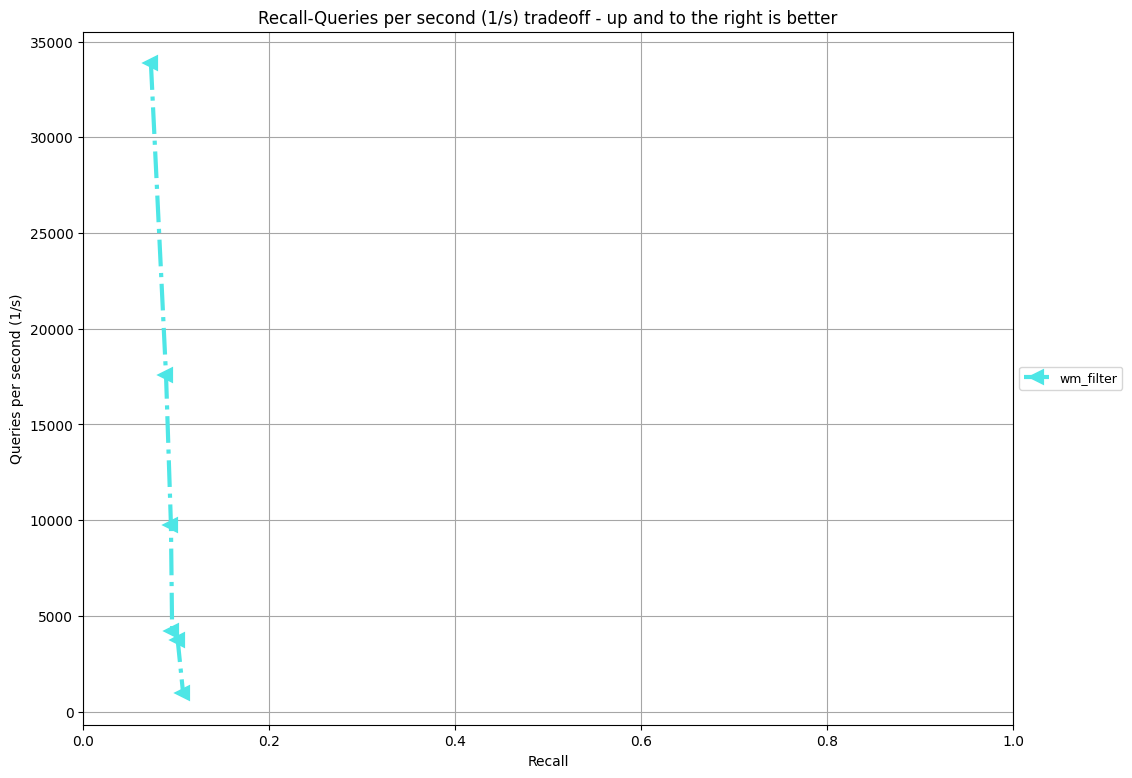
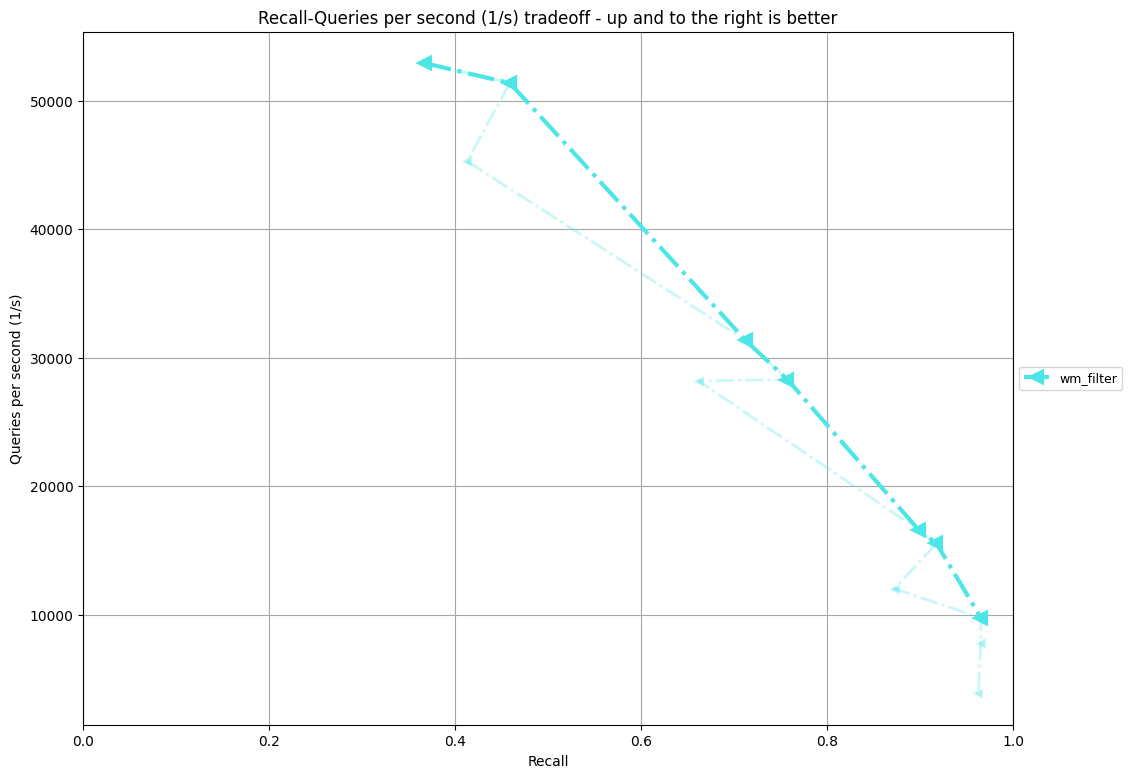
added result of fast scan

diff --git a/neurips23/filter/wm_filter/wm_filter.py b/neurips23/filter/wm_filter/wm_filter.py
@@ -86,6 +86,7 @@ class FAISS(BaseFilterANN):
         self._index_params = index_params
         self._metric = metric
         print(index_params)
+        self.train_size = index_params.get('train_size', None)
         self.indexkey = index_params.get("indexkey", "IVF32768,SQ8")
         self.binarysig = index_params.get("binarysig", True)
         self.binarysig_proba1 = index_params.get("binarysig_proba1", 0.1)
@@ -94,6 +95,7 @@ class FAISS(BaseFilterANN):
     
 
     def fit(self, dataset):
+        faiss.omp_set_num_threads(self.nt)
         ds = DATASETS[dataset]()
         if ds.search_type() == "knn_filtered" and self.binarysig:
             print("preparing binary signatures")
@@ -114,14 +116,28 @@ class FAISS(BaseFilterANN):
         xb = ds.get_dataset()
 
         print("train")
-        index.train(xb)
+        print('train_size', self.train_size)
+        if self.train_size is not None:
+            x_train = xb[:self.train_size]
+        else:
+            x_train = xb
+        index.train(x_train)
         print("populate")
         if self.binsig is None:
-            index.add(xb)
+            bs = 1024
+            for i0 in range(0, ds.nb, bs):
+                index.add(xb[i0: i0 + bs])
+
         else:
             ids = np.arange(ds.nb) | self.binsig.db_sig
-            index.add_with_ids(xb, ids)
+            print('starting index with ids of type', ids.dtype, ids.shape, xb.shape)
+            bs = 1024
+            for i0 in range(0, ds.nb, bs):
+                index.add_with_ids(xb[i0: i0+bs], ids[i0:i0+bs])
 
+            #index.add_with_ids(xb, ids)
+
+        print('ids added')
         self.index = index
         self.nb = ds.nb
         self.xb = xb
@@ -199,6 +215,10 @@ class FAISS(BaseFilterANN):
         nq = X.shape[0]
         self.I = -np.ones((nq, k), dtype='int32')        
         bs = 1024
+
+        print('k_factor', self.index.k_factor)
+        self.index.k_factor = self.k_factor
+
         for i0 in range(0, nq, bs):
             _, self.I[i0:i0+bs] = self.index.search(X[i0:i0+bs], k)
 
@@ -245,7 +265,7 @@ class FAISS(BaseFilterANN):
                     sel.set_query_words_mask(
                         int(w1), int(w2), self.binsig.query_signature(w1, w2))
 
-                params = faiss.SearchParametersIVF(sel=sel, nprobe=self.nprobe)
+                params = faiss.SearchParametersIVF(sel=sel, nprobe=self.nprobe, k_factor=self.k_factor)
 
                 _, Ii = self.index.search(
                     X[q:q+1], k, params=params
@@ -279,6 +299,10 @@ class FAISS(BaseFilterANN):
             self.qas = query_args
         else:
             self.nprobe = 1
+        if "k_factor" in query_args:
+            self.k_factor = query_args['k_factor']
+            self.qas = query_args
+
         if "mt_threshold" in query_args:
             self.metadata_threshold = query_args['mt_threshold']
         else:

diff --git a/neurips23/filter/wm_filter/NOTES.md b/neurips23/filter/wm_filter/NOTES.md
@@ -1,1 +1,6 @@
-Here some notes on what to do next should go
+To run locally without the container you can use the `build.local.sh` to build the library locally
+Then you can use:
+
+`PYTHONPATH=/home/alessandro/workspace/faiss/build/faiss/python/build/lib/:/home/alessandro/workspace/big-ann-benchmarks/neurips23/filter/wm_filter/ python run.py --neurips23track filter    --algorithm wm_filter   --dataset yfcc-10M --nodocker`
+
+The `PYTHONPATH` has to include both the Faiss library path as well the as the `wm_filter` folder where the library was build by `build_local.sh`
